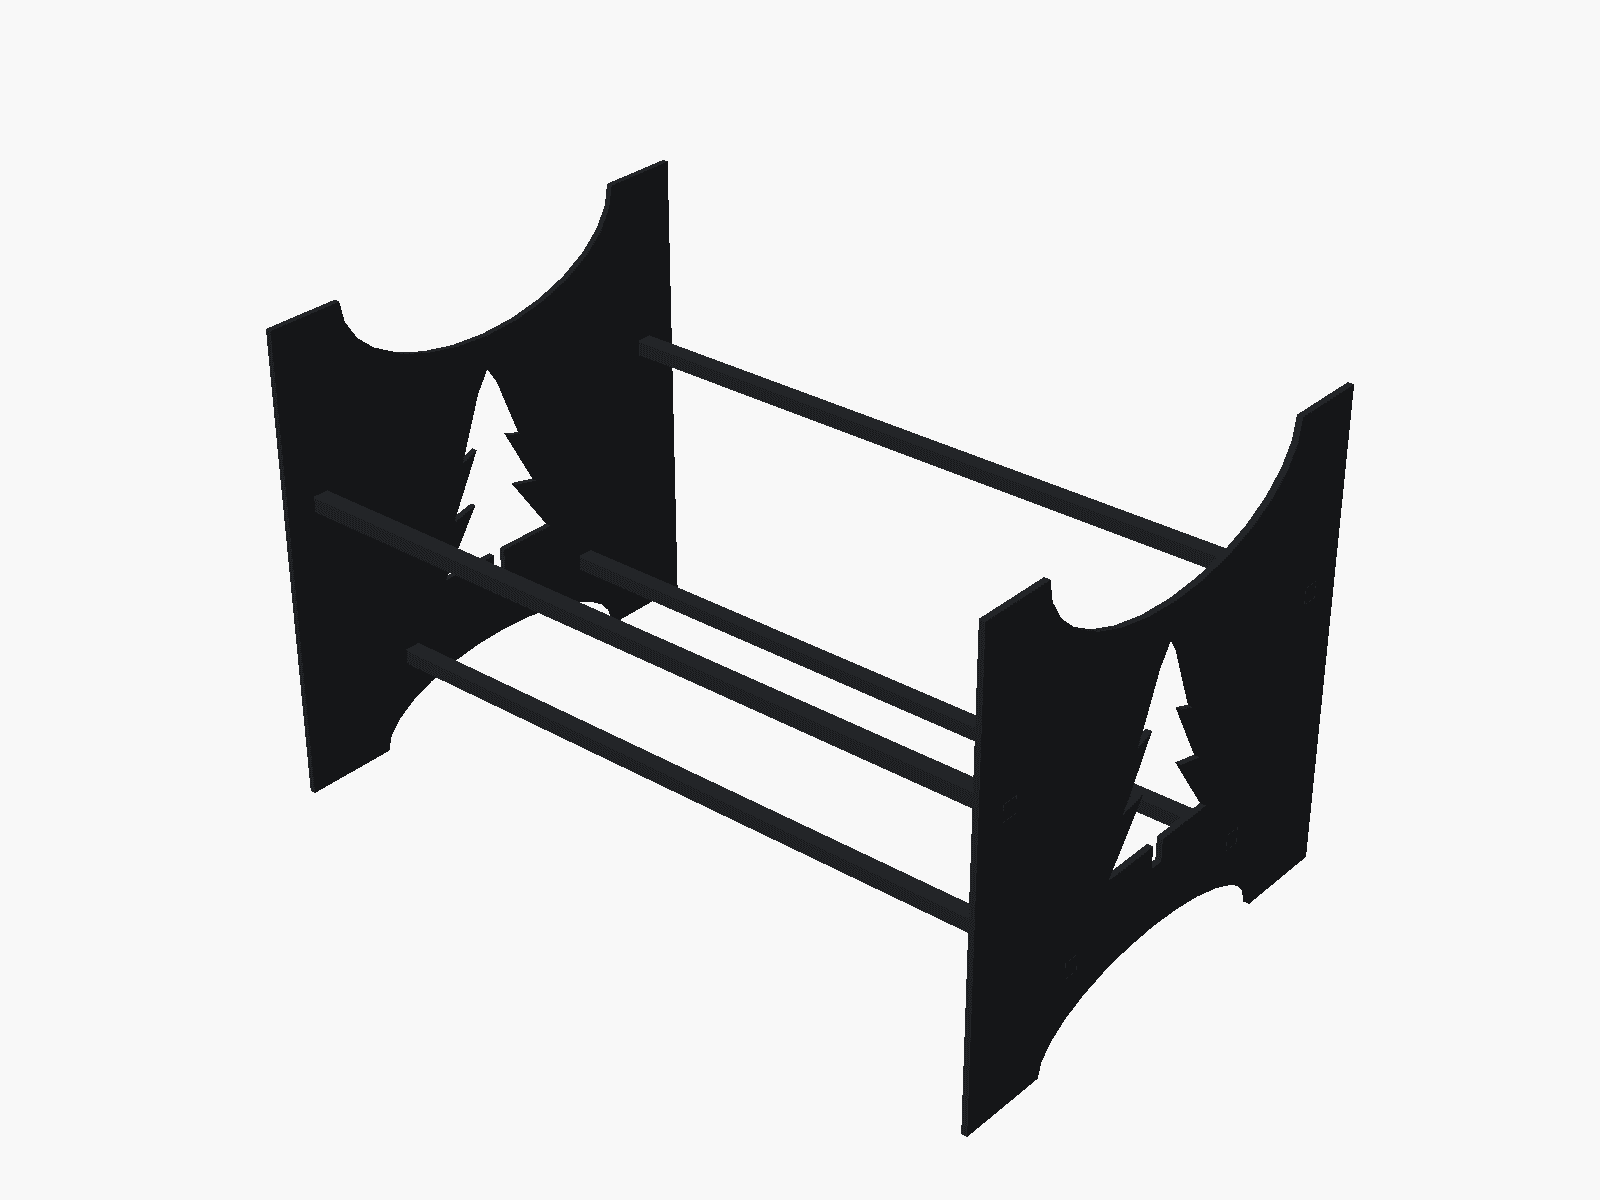
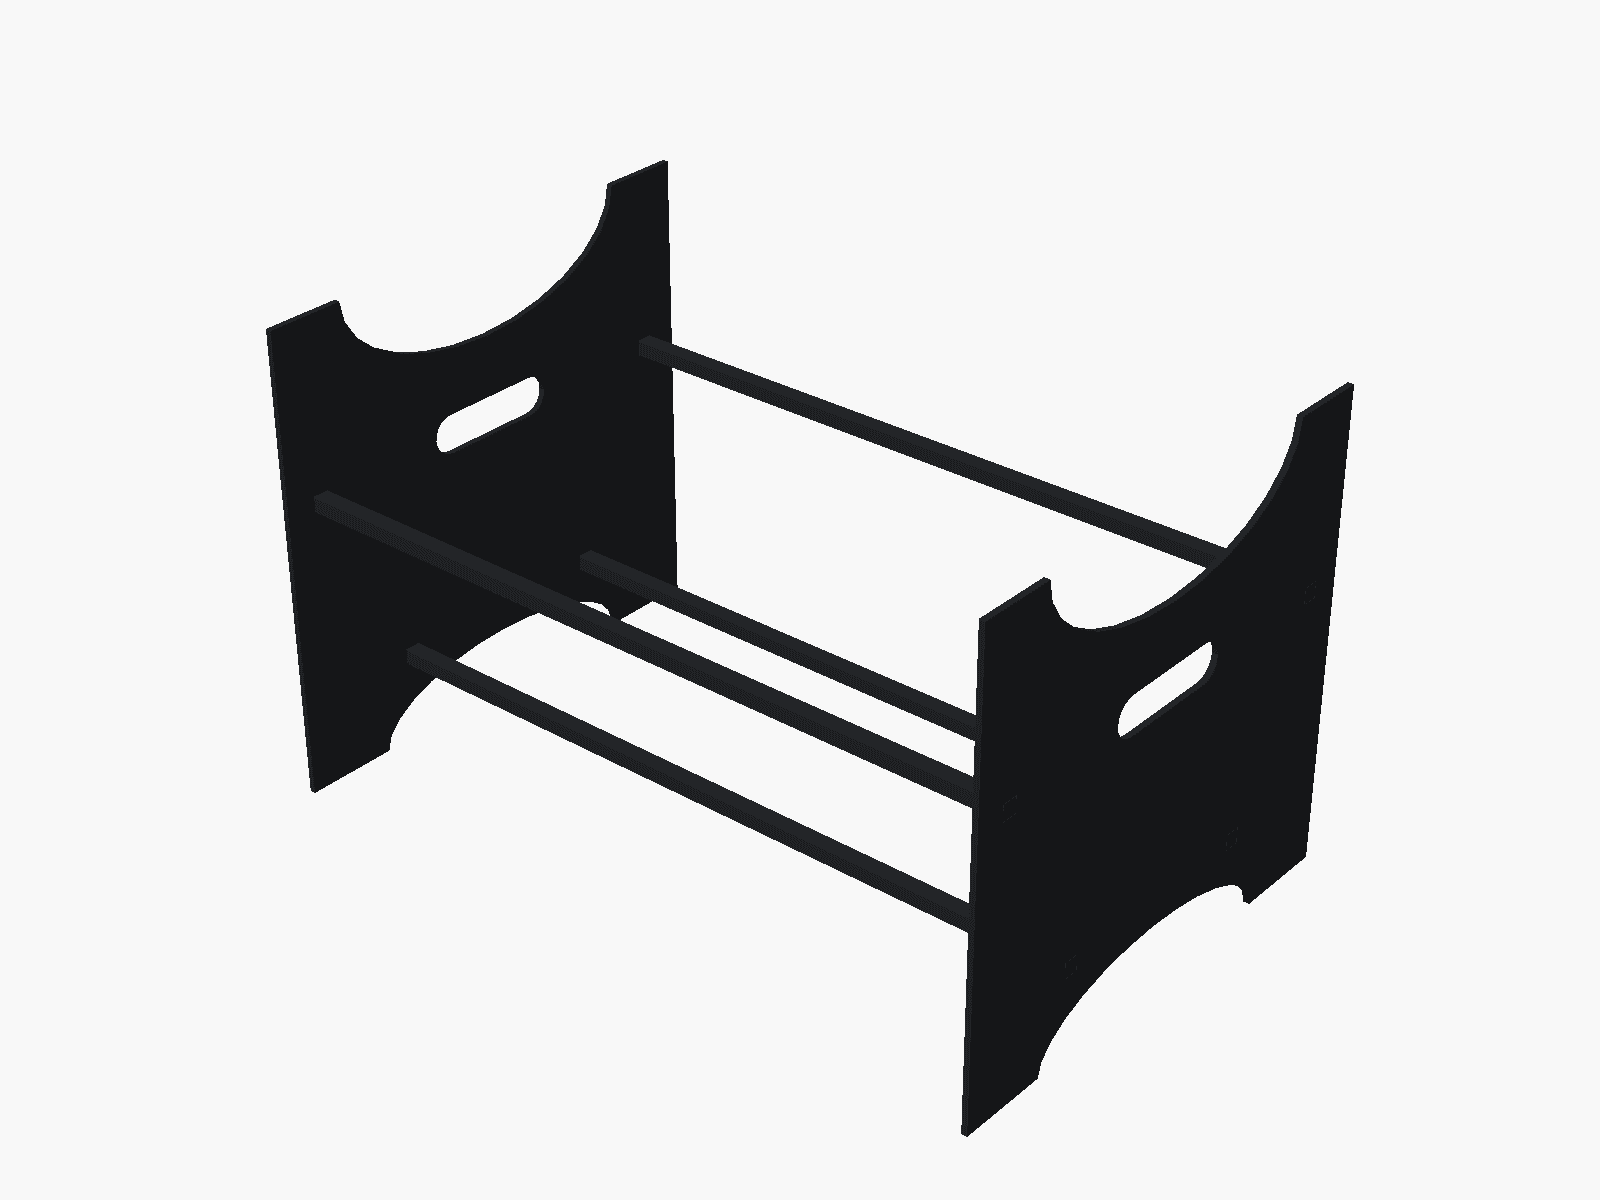
Preview: griddle, heavy fireplace grate, log holder without the tree

Changed region(s): [[0.6875, 0.5242, 0.7812, 0.7092], [0.25, 0.3083, 0.3438, 0.4625]]

diff --git a/outdoor/index.html b/outdoor/index.html
@@ -2,7 +2,7 @@
 <html lang="en"><head><meta charset="utf-8">
 <meta name="viewport" content="width=device-width, initial-scale=1, viewport-fit=cover">
 <title>Fire &amp; wood storage | Technical Precision Corp.</title>
-<meta name="description" content="Fire pits, a rocket stove, a fire pit grill, an outdoor fireplace and log racks, cut and welded from heavy steel by Technical Precision in Poughkeepsie, NY. Made to order, local delivery.">
+<meta name="description" content="Fire pits, a rocket stove, a fire pit grill, an outdoor fireplace and firewood racks, cut and welded from heavy steel by Technical Precision in Poughkeepsie, NY. Made to order, local delivery.">
 <meta name="theme-color" content="#0f3b7c">
 <meta name="robots" content="noindex, nofollow">
 <meta property="og:title" content="Fire pits, stoves &amp; wood storage, made in Poughkeepsie">
@@ -64,15 +64,17 @@ input, select, textarea { font: inherit; color: var(--line); background: rgba(7,
 <main>
 <p class="eyebrow" style="margin-top:34px">New · Fire &amp; wood storage</p>
 <h1>Steel for the fire,<br>made in Poughkeepsie.</h1>
-<p class="lede">Fire pits, a rocket stove, a fire pit grill, an outdoor fireplace and log racks, cut on our laser and welded in our shop from
+<p class="lede">Fire pits, a rocket stove, a fire pit grill, an outdoor fireplace and firewood racks, cut on our laser and welded in our shop from
 heavy plate, not the thin stuff from the big stores. The log racks and log holder keep wood dry and handy for indoor fireplaces and wood stoves too. Every piece is made to order. We deliver around Poughkeepsie in the shop truck.</p>
 <div class="cards"><a class="card" href="#rocket-stove"><img src="img/rocket-stove.png" alt="TP Rocket Stove" loading="lazy" width="1000" height="750">
 <span class="kind">Cooking · RS-1</span><b>TP Rocket Stove</b><span>Cook a full meal on a handful of sticks.</span><span class="price">$169</span></a><a class="card" href="#fire-pit"><img src="img/fire-pit.png" alt="Pine &amp; Moon Fire Pit" loading="lazy" width="1000" height="750">
 <span class="kind">Fire pit · FP-30</span><b>Pine &amp; Moon Fire Pit</b><span>Four panels, no tools, a fire to sit around.</span><span class="price">$299</span></a><a class="card" href="#fire-pit-grill"><img src="img/fire-pit-grill.png" alt="Backyard Fire Pit Grill" loading="lazy" width="1000" height="750">
 <span class="kind">Grill · FG-28</span><b>Backyard Fire Pit Grill</b><span>A fire pit you can grill on: steaks at the right height.</span><span class="price">$449</span></a><a class="card" href="#outdoor-fireplace"><img src="img/outdoor-fireplace.png" alt="Pine Ridge Outdoor Fireplace" loading="lazy" width="1000" height="750">
 <span class="kind">Outdoor fireplace · OF-36</span><b>Pine Ridge Outdoor Fireplace</b><span>Sit in front of it: the heat comes back to you, the wind doesn&#x27;t.</span><span class="price">$399</span></a><a class="card" href="#firewood-rack"><img src="img/firewood-rack.png" alt="Heavy Log Rack" loading="lazy" width="1000" height="750">
-<span class="kind"> Wood storage · WR-4</span><b>Heavy Log Rack</b><span>Keeps a stack of logs off the wet ground.</span><span class="price">$249</span></a><a class="card" href="#log-holder"><img src="img/log-holder.png" alt="Hearth Log Holder" loading="lazy" width="1000" height="750">
-<span class="kind"> Wood storage · LH-1</span><b>Hearth Log Holder</b><span>Logs by the fireplace or the door, looking sharp.</span><span class="price">$149</span></a></div>
+<span class="kind">Wood storage · WR-4</span><b>Heavy Log Rack</b><span>Keeps a stack of logs off the wet ground.</span><span class="price">$249</span></a><a class="card" href="#log-holder"><img src="img/log-holder.png" alt="Hearth Log Holder" loading="lazy" width="1000" height="750">
+<span class="kind">Wood storage · LH-1</span><b>Hearth Log Holder</b><span>Logs by the fireplace or the door, looking sharp.</span><span class="price">$149</span></a><a class="card" href="#griddle"><img src="img/griddle.png" alt="Stainless Flat-Top Griddle" loading="lazy" width="1000" height="750">
+<span class="kind">Cooking · GR-36</span><b>Stainless Flat-Top Griddle</b><span>A 36&quot; flat-top for the backyard: wood-fired or propane.</span><span class="price">$599</span></a><a class="card" href="#fireplace-grate"><img src="img/fireplace-grate.png" alt="Heavy-Duty Fireplace Grate" loading="lazy" width="1000" height="750">
+<span class="kind">Indoor fireplace · HG-22</span><b>Heavy-Duty Fireplace Grate</b><span>The grate that doesn&#x27;t sag or melt.</span><span class="price">$229</span></a></div>
 
 <section class="prod" id="rocket-stove">
   <p class="eyebrow">Sheet 01 · Cooking · DWG TP-RS-1-100</p>
@@ -157,17 +159,49 @@ heavy plate, not the thin stuff from the big stores. The log racks and log holde
 <section class="prod" id="log-holder">
   <p class="eyebrow">Sheet 06 · Wood storage · DWG TP-LH-1-100</p>
   <h2>Hearth Log Holder <span class="price">$149</span></h2>
-  <p class="lede">A 24&quot; log holder with pine-tree end plates in 3/16&quot; steel and 1/2&quot; bar rails, powder coated. A great gift: add initials instead of the tree.</p>
+  <p class="lede">A 24&quot; log holder with solid 3/16&quot; steel end plates (a carry slot in each) and 1/2&quot; bar rails, powder coated. Clean and strong; initials can be laser-etched on an end.</p>
   <div class="grid2">
     <figure class="dwg"><img src="dwg/log-holder.svg" alt="Dimensioned drawing of the Hearth Log Holder" loading="lazy"><figcaption>Front, right and top views, inches. Original Technical Precision design.</figcaption></figure>
     <div><img class="render" src="img/log-holder.png" alt="" loading="lazy" width="1000" height="750">
-      <table class="specs"><tr><th>Size</th><td>24-3/8&quot; L x 16&quot; W x 15&quot; H</td></tr><tr><th>Steel</th><td>3/16&quot; plate ends, 1/2&quot; bar rails</td></tr><tr><th>Holds</th><td>about 15–20 split logs</td></tr><tr><th>Finish</th><td>powder coat</td></tr><tr><th>Custom</th><td>initials or a house name instead of the tree, +$30</td></tr><tr><th>Weight</th><td>about 26 lb</td></tr></table>
+      <table class="specs"><tr><th>Size</th><td>24-3/8&quot; L x 16&quot; W x 15&quot; H</td></tr><tr><th>Steel</th><td>3/16&quot; plate ends, 1/2&quot; bar rails</td></tr><tr><th>Holds</th><td>about 15–20 split logs</td></tr><tr><th>Finish</th><td>powder coat</td></tr><tr><th>Custom</th><td>initials laser-etched on an end, +$30</td></tr><tr><th>Weight</th><td>about 27 lb</td></tr></table>
       <p class="note">Custom initials +$30. Made to order: about 1–2 weeks.</p>
       <a class="btn" href="#order" data-product="Hearth Log Holder">Order or ask about this one</a></div>
   </div>
   <div class="grid2">
     <div><h3>How we make it</h3><ol class="steps"><li>Laser: 2 end plates with locating holes</li><li>Saw: 4 rails</li><li>MIG: rails through the holes, ground flush</li><li>Powder coat</li></ol></div>
-    <div><h3>Why it's built this way</h3><ul class="feats"><li>Heavy 3/16&quot; steel ends with a pine-tree cutout</li><li>Holds a couple of nights of wood</li><li>Felt feet for indoor floors</li><li>Custom initials make it a gift</li><li>Matches the Pine &amp; Moon Fire Pit</li></ul></div>
+    <div><h3>Why it's built this way</h3><ul class="feats"><li>Solid 3/16&quot; steel ends with a built-in carry slot</li><li>Holds a couple of nights of wood</li><li>Felt feet for indoor floors</li><li>Custom etched initials make it a gift</li><li>Carry it to the fireplace by the end slots</li></ul></div>
+  </div>
+</section>
+<section class="prod" id="griddle">
+  <p class="eyebrow">Sheet 07 · Cooking · DWG TP-GR-36-100</p>
+  <h2>Stainless Flat-Top Griddle <span class="price">$599</span></h2>
+  <p class="lede">A 36&quot; x 22&quot; flat-top griddle with a stainless steel body, legs, shelf and hinged lid that won&#x27;t rust, and a heavy 1/4&quot; seasoned steel cooktop that cooks evenly. Wood-fired (cheapest), or propane with a certified burner kit.</p>
+  <div class="grid2">
+    <figure class="dwg"><img src="dwg/griddle.svg" alt="Dimensioned drawing of the Stainless Flat-Top Griddle" loading="lazy"><figcaption>Front, right and top views, inches. Original Technical Precision design.</figcaption></figure>
+    <div><img class="render" src="img/griddle.png" alt="" loading="lazy" width="1000" height="750">
+      <table class="specs"><tr><th>Cooktop</th><td>36&quot; x 22&quot;, 1/4&quot; seasoned steel</td></tr><tr><th>Body, lid, legs</th><td>304 stainless (no rust)</td></tr><tr><th>Height</th><td>33-1/4&quot; to the cooktop</td></tr><tr><th>Fuel</th><td>wood, or propane (gas version)</td></tr><tr><th>Cover</th><td>hinged stainless lid</td></tr><tr><th>Weight</th><td>about 142 lb</td></tr></table>
+      <p class="note">Wood-fired $599 · propane $799 · all-carbon-steel wood version $349. Made to order: about 1–2 weeks.</p>
+      <a class="btn" href="#order" data-product="Stainless Flat-Top Griddle">Order or ask about this one</a></div>
+  </div>
+  <div class="grid2">
+    <div><h3>How we make it</h3><ol class="steps"><li>Laser: cooktop + stainless body parts</li><li>Press brake: firebox + lid</li><li>MIG/TIG stainless: box, legs, shelf</li><li>Hinges, guards, (gas: certified burner kit + leak test)</li><li>Season the cooktop + test cook</li></ol></div>
+    <div><h3>Why it's built this way</h3><ul class="feats"><li>Stainless body, lid and legs: no rust</li><li>Heavy 1/4&quot; cooktop: even heat, seasons non-stick like cast iron</li><li>Wood-fired: no propane to buy; or propane with a certified burner kit</li><li>Hinged lid keeps rain and leaves off</li><li>Removable cooktop for cleaning, grease cup, storage shelf</li></ul></div>
+  </div>
+</section>
+<section class="prod" id="fireplace-grate">
+  <p class="eyebrow">Sheet 08 · Indoor fireplace · DWG TP-HG-22-100</p>
+  <h2>Heavy-Duty Fireplace Grate <span class="price">$229</span></h2>
+  <p class="lede">For the indoor fireplace: six 1&quot; solid steel bars on three 1/2&quot; steel supports, so no bar spans more than 10&quot;. Store grates are thin bars on long spans; this one is built like a machine part.</p>
+  <div class="grid2">
+    <figure class="dwg"><img src="dwg/fireplace-grate.svg" alt="Dimensioned drawing of the Heavy-Duty Fireplace Grate" loading="lazy"><figcaption>Front, right and top views, inches. Original Technical Precision design.</figcaption></figure>
+    <div><img class="render" src="img/fireplace-grate.png" alt="" loading="lazy" width="1000" height="750">
+      <table class="specs"><tr><th>Size</th><td>22&quot; W x 14&quot; D x 7&quot; H at the back</td></tr><tr><th>Bars</th><td>6 x 1&quot; solid square steel</td></tr><tr><th>Supports</th><td>3 x 1/2&quot; plate</td></tr><tr><th>Fits</th><td>fireplaces 26&quot;+ wide at the back (18&quot; and 26&quot; on request)</td></tr><tr><th>Finish</th><td>bare or 2000 °F black</td></tr><tr><th>Weight</th><td>about 61 lb</td></tr></table>
+      <p class="note">18&quot; $189 · 26&quot; $269. Made to order: about 1–2 weeks.</p>
+      <a class="btn" href="#order" data-product="Heavy-Duty Fireplace Grate">Order or ask about this one</a></div>
+  </div>
+  <div class="grid2">
+    <div><h3>How we make it</h3><ol class="steps"><li>Laser: 3 supports from 1/2&quot; plate</li><li>Saw: 6 solid 1&quot; bars</li><li>MIG: full fillets</li><li>Bare or 2000 °F paint</li></ol></div>
+    <div><h3>Why it's built this way</h3><ul class="feats"><li>1&quot; solid bars: won&#x27;t sag or melt like thin store grates</li><li>Center support: no bar spans more than 10&quot;</li><li>Back rises 2&quot; so logs roll in toward the fire</li><li>Legs lift the fire for airflow and easy ash cleanup</li><li>Made in our machine shop, sized to your fireplace on request</li></ul></div>
   </div>
 </section>
 <section class="prod" id="firewood">
@@ -185,7 +219,7 @@ heavy plate, not the thin stuff from the big stores. The log racks and log holde
   <form id="f" autocomplete="on">
     <div class="row"><label>Name *<input name="name" required autocomplete="name"></label><label>Phone<input name="phone" type="tel" autocomplete="tel"></label></div>
     <label>Email<input name="email" type="email" autocomplete="email"></label>
-    <label>Product<select name="product"><option>TP Rocket Stove ($169)</option><option>Pine &amp; Moon Fire Pit ($299)</option><option>Backyard Fire Pit Grill ($449)</option><option>Pine Ridge Outdoor Fireplace ($399)</option><option>Heavy Log Rack ($249)</option><option>Hearth Log Holder ($149)</option><option>Custom wood rack</option><option>Something else</option></select></label>
+    <label>Product<select name="product"><option>TP Rocket Stove ($169)</option><option>Pine &amp; Moon Fire Pit ($299)</option><option>Backyard Fire Pit Grill ($449)</option><option>Pine Ridge Outdoor Fireplace ($399)</option><option>Heavy Log Rack ($249)</option><option>Hearth Log Holder ($149)</option><option>Stainless Flat-Top Griddle ($599)</option><option>Heavy-Duty Fireplace Grate ($229)</option><option>Custom wood rack</option><option>Something else</option></select></label>
     <label>Options or custom size<input name="options" placeholder="e.g. 8 ft rack with roof · family name on the fire pit"></label>
     <label>Delivery town<input name="town" placeholder="Poughkeepsie, Wappingers Falls, Hyde Park…"></label>
     <label>Anything else<textarea name="message" rows="3"></textarea></label>
